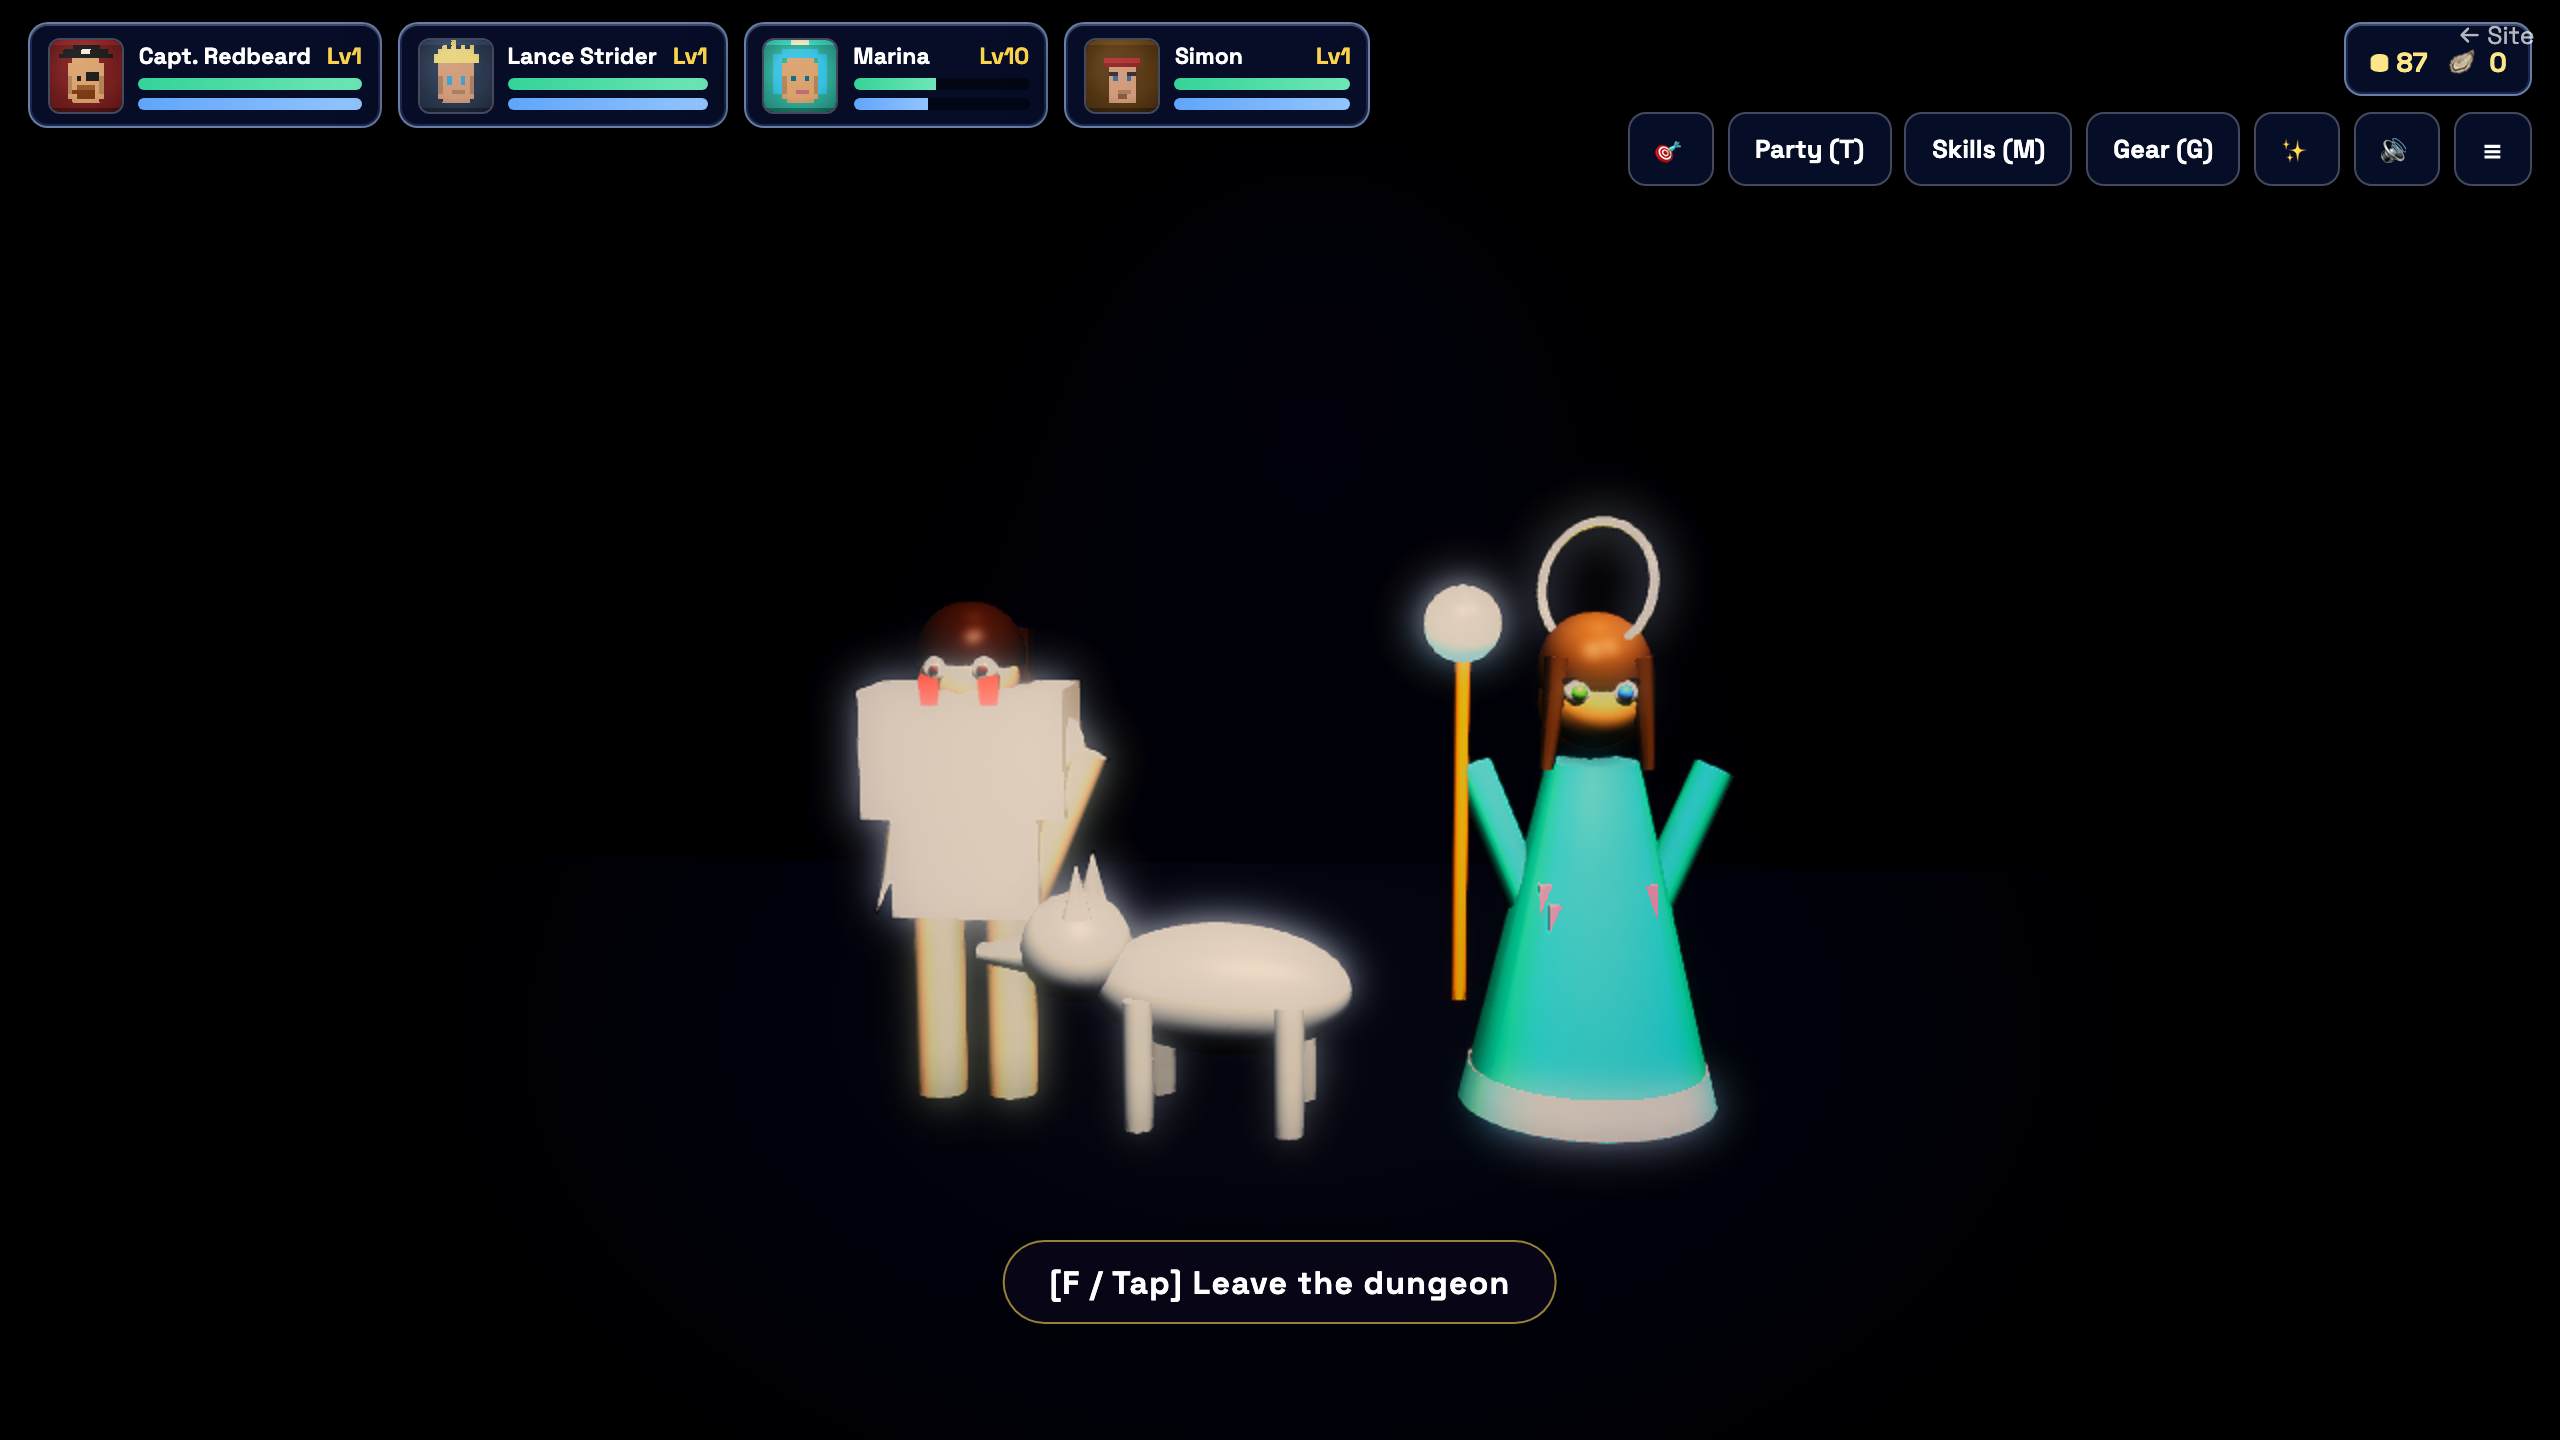
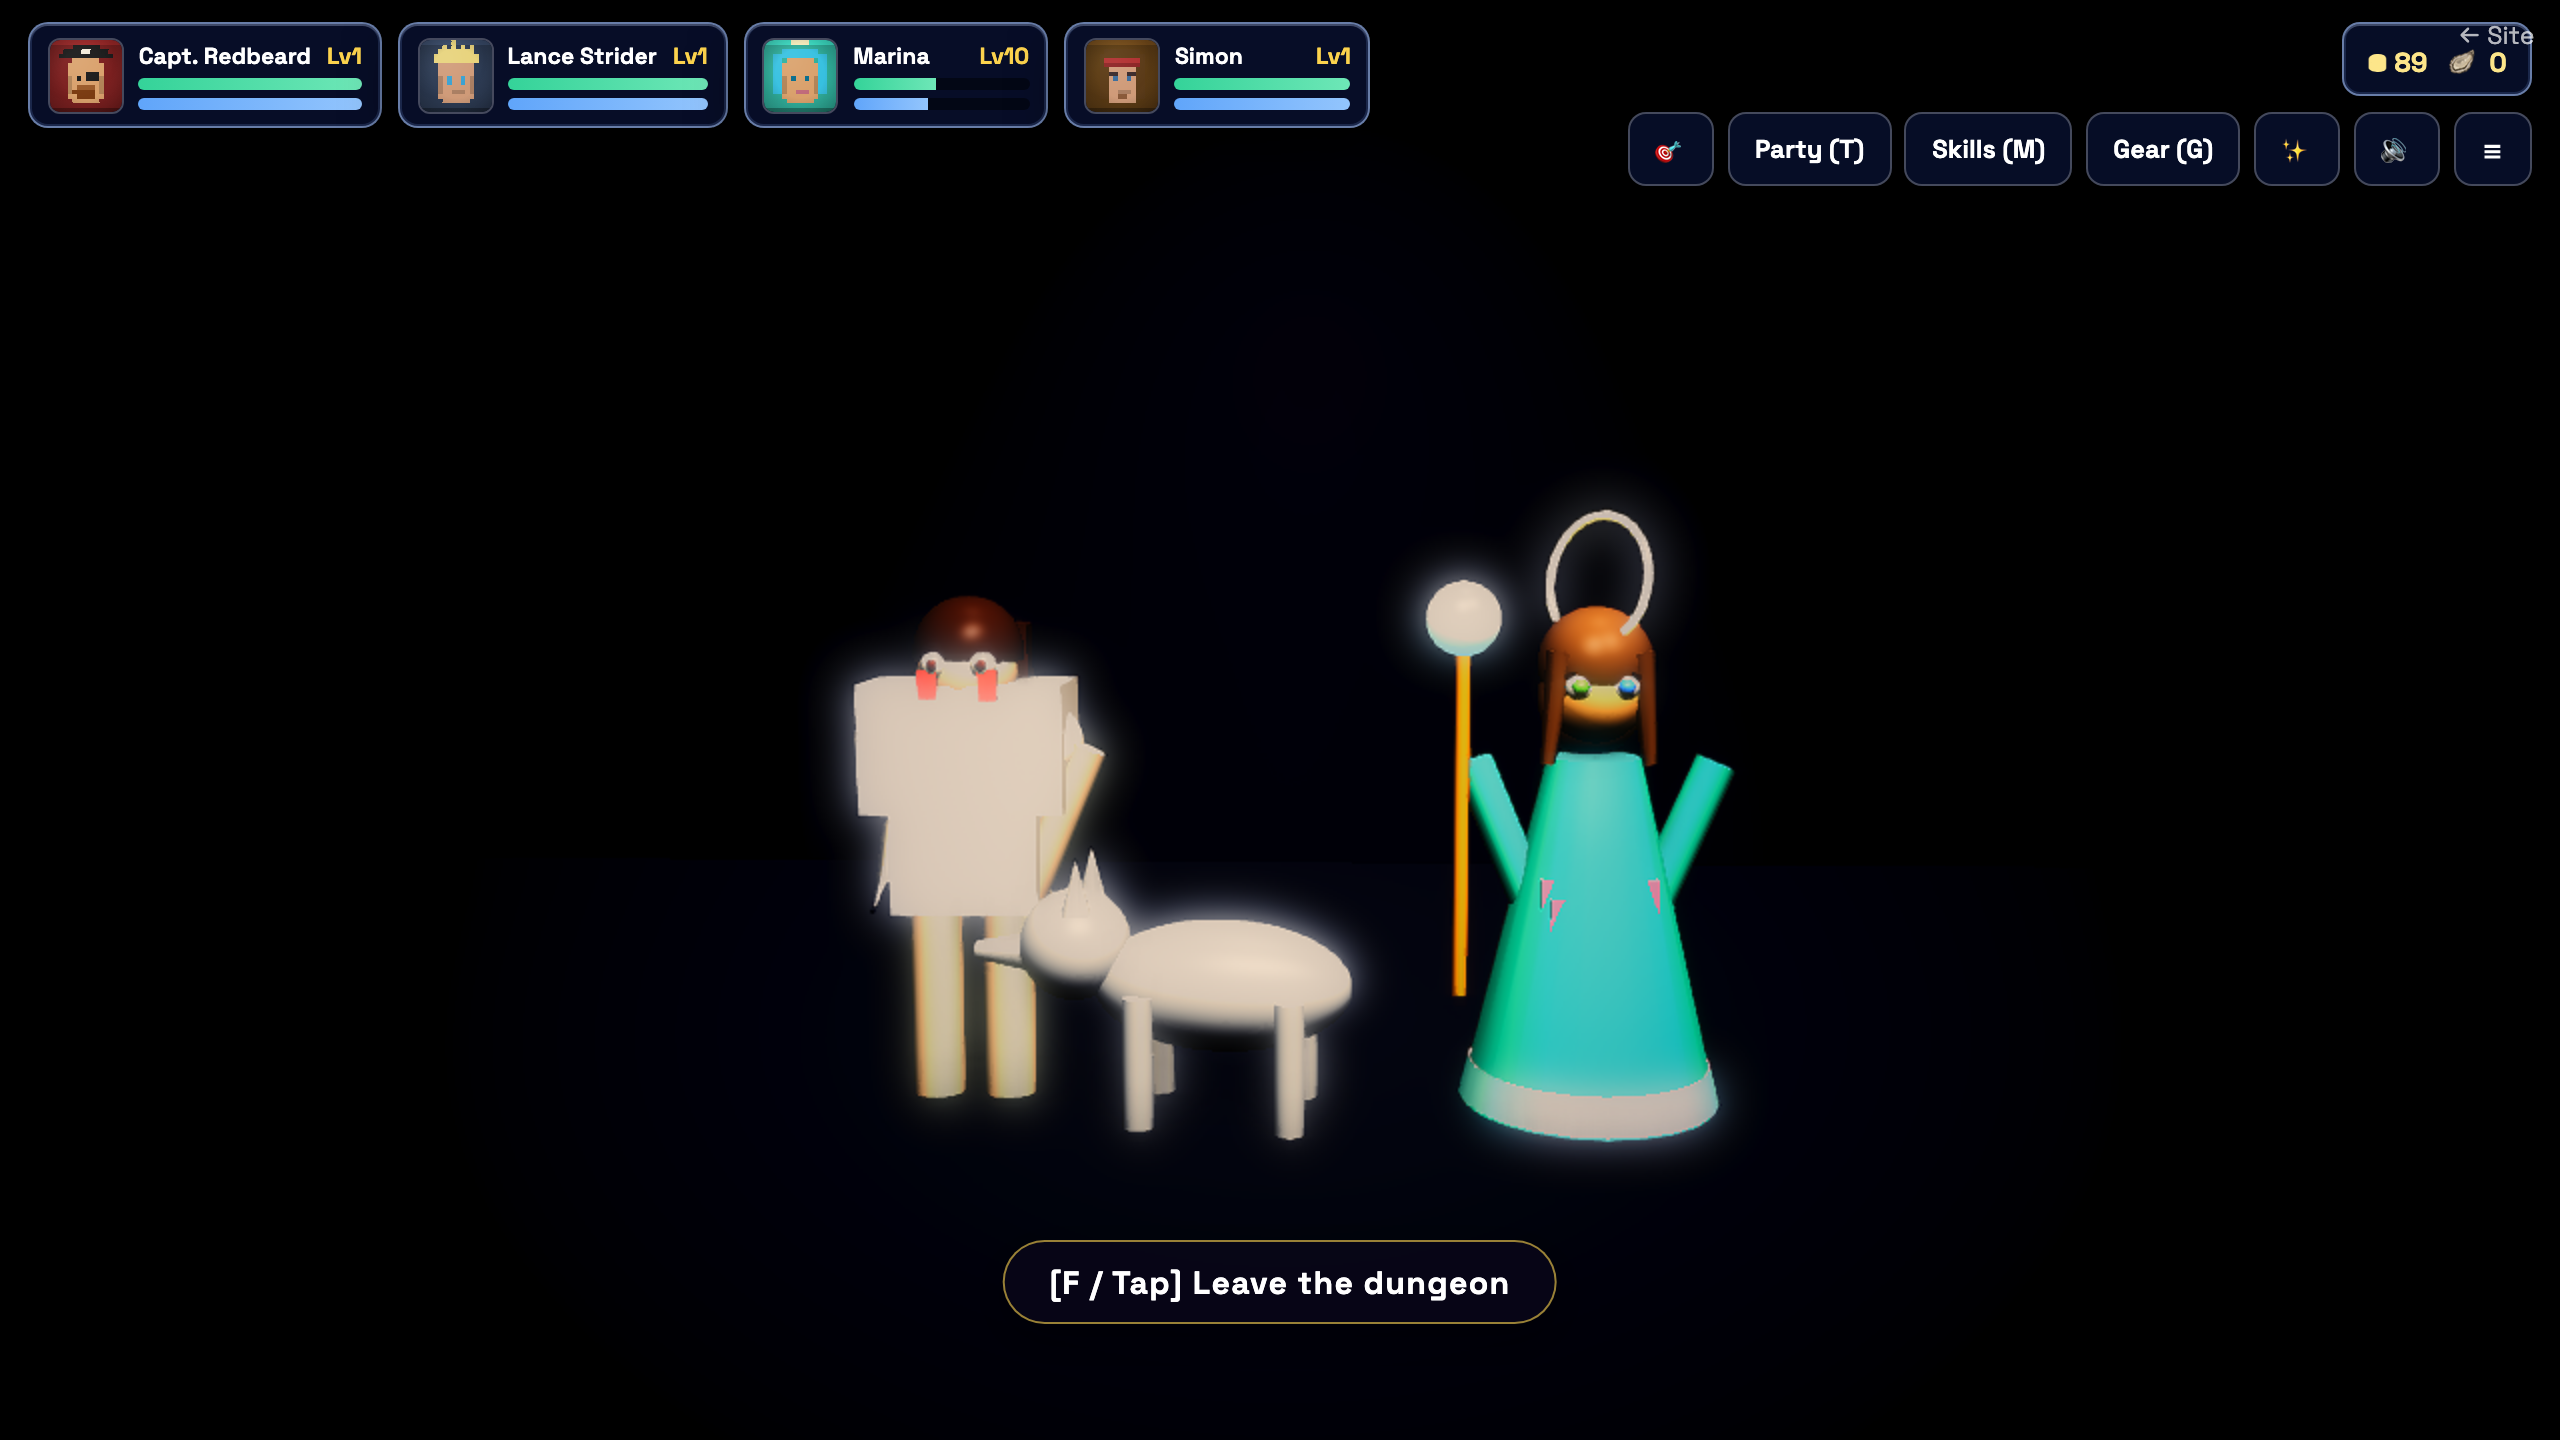
chore(capture): screenshots @ 2026-06-21T04:20:10.912Z (0 errors)

diff --git a/captures/latest/REPORT.md b/captures/latest/REPORT.md
@@ -1,4 +1,4 @@
-# Capture report — 2026-06-21T03:57:20.764Z
+# Capture report — 2026-06-21T04:20:10.912Z
 
 ## JS errors: 0
 _none — no runtime errors caught_
@@ -46,7 +46,7 @@ _none — no runtime errors caught_
 ## Game-state snapshot
 ```json
 {
-  "gold": 87,
+  "gold": 89,
   "pearls": 0,
   "active": [
     "pirate",
